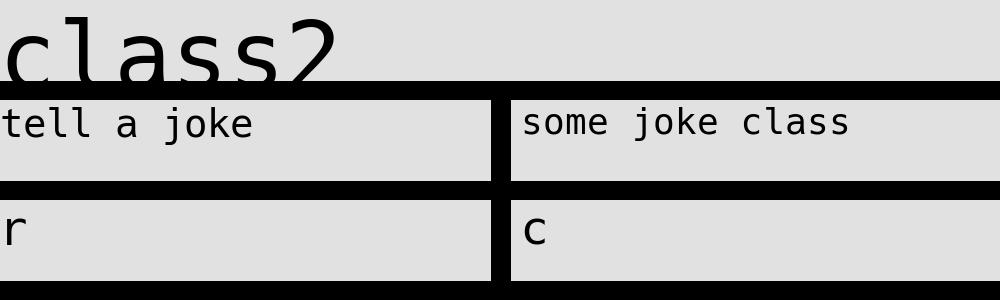
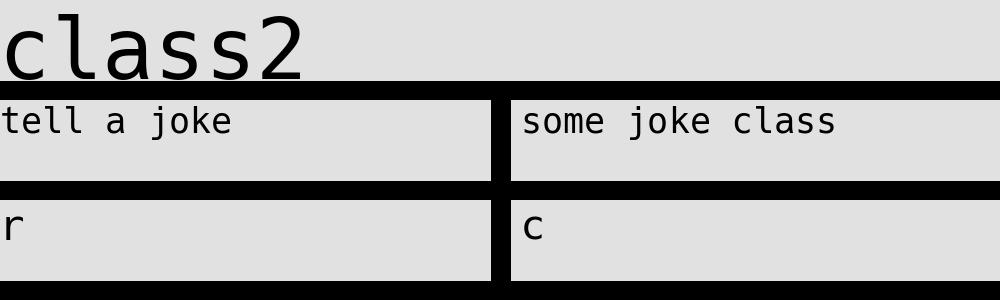
esize

diff --git a/CRC-generator.py b/CRC-generator.py
@@ -23,7 +23,7 @@ def fit_font_size(s:str, sizes:(int,int)):
     s=cut(s)
     font_size=1
     font = ImageFont.truetype("Hack-Regular.ttf", size=1)
-    while font.getsize(s)[0]<sizes[0]*(0.65) and font.getsize(s)[1]<sizes[1]*(0.90):
+    while font.getsize(s)[0]<sizes[0]*(0.65) and font.getsize(s)[1]<sizes[1]*(0.80):
         font_size+=1
         font = ImageFont.truetype("Hack-Regular.ttf", font_size)
     return font
